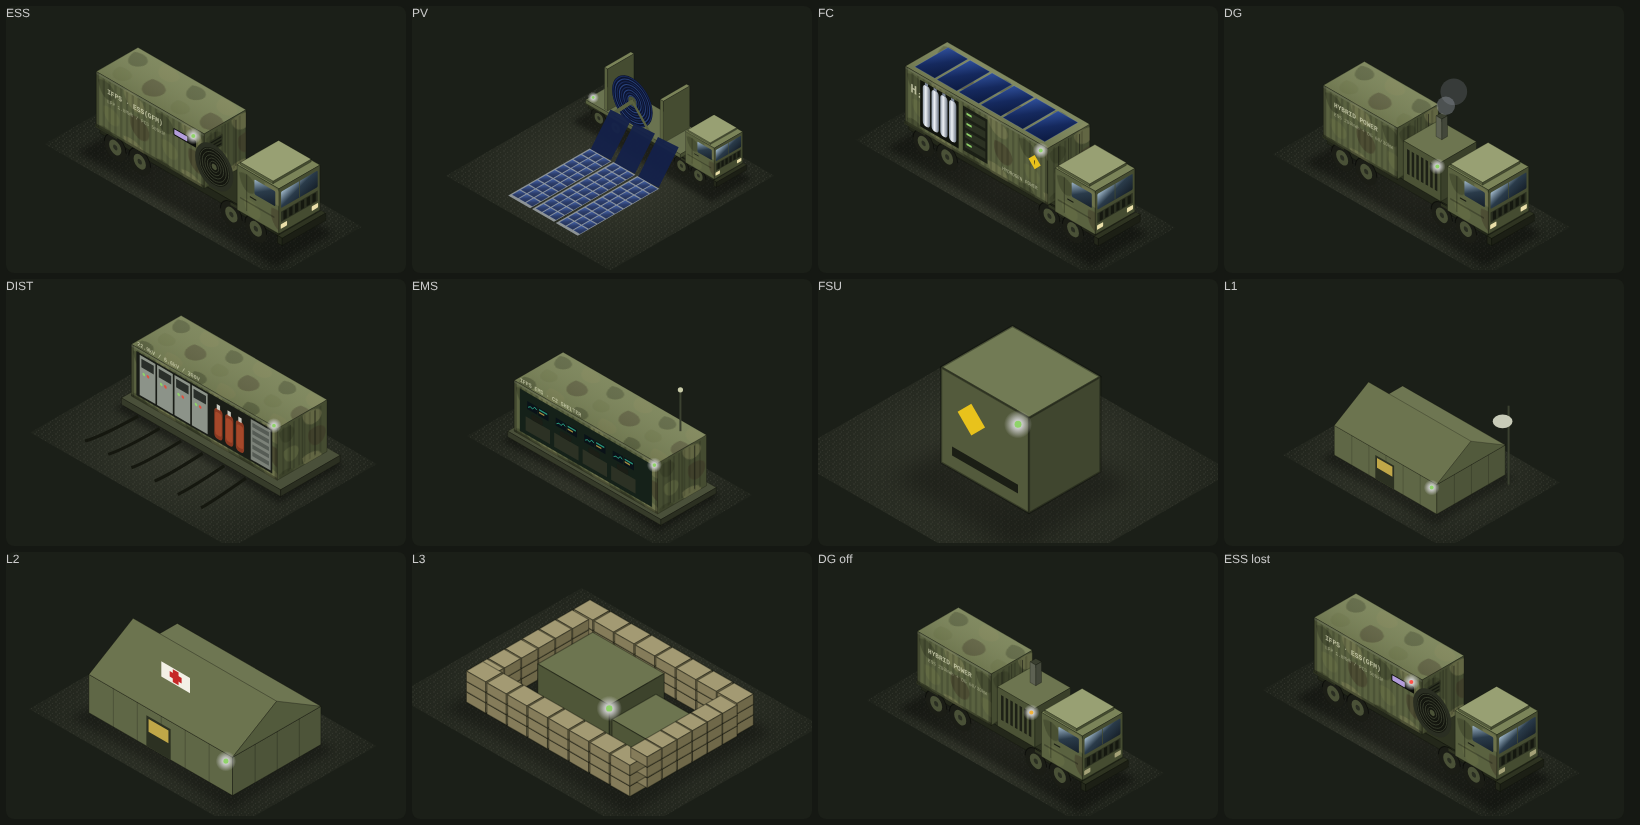
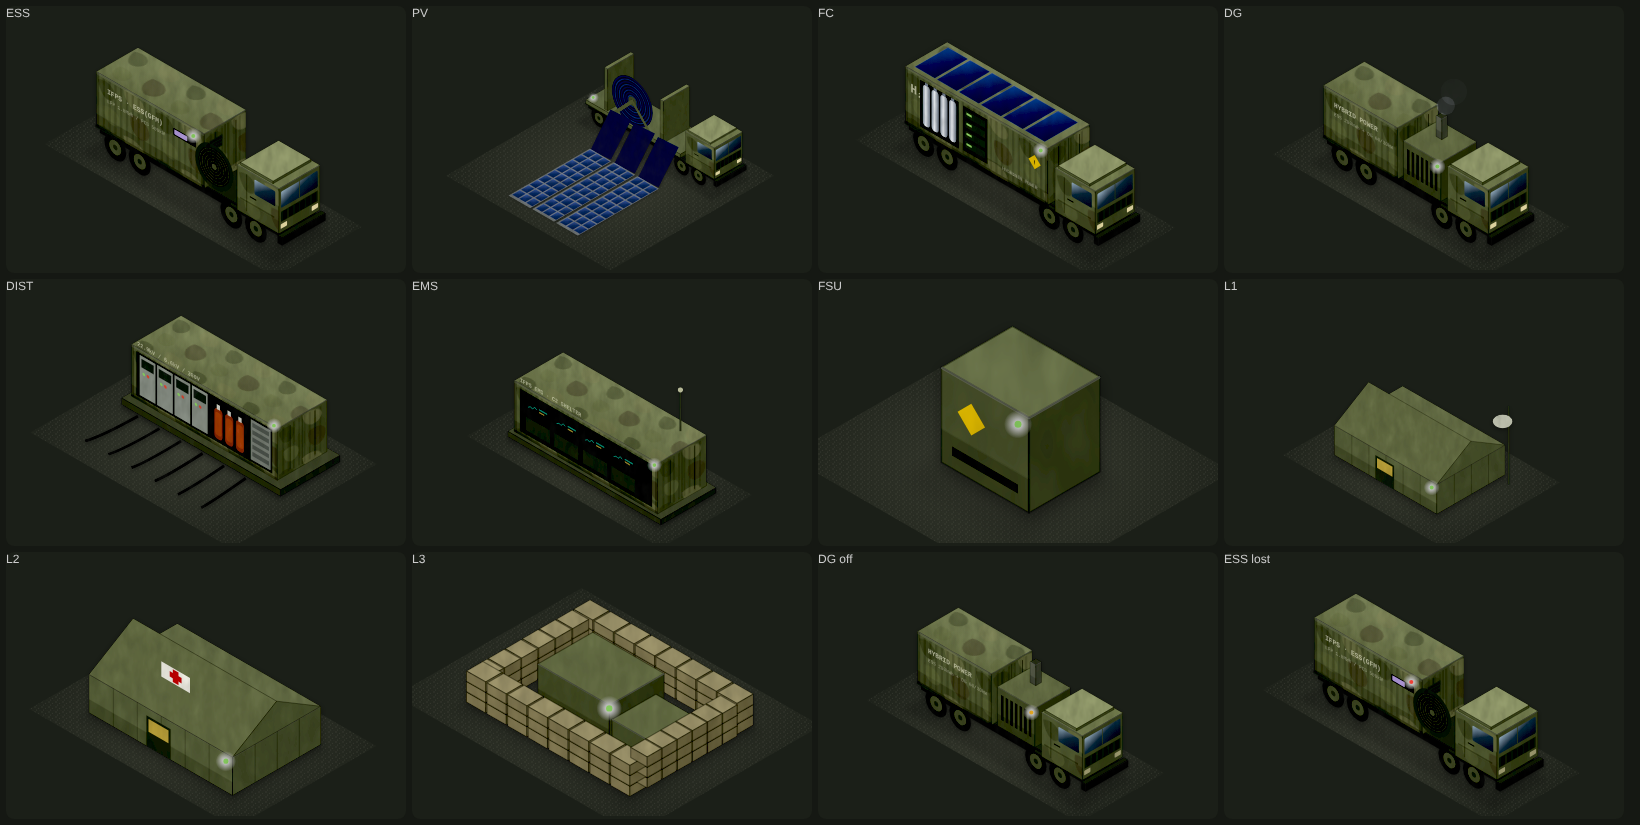
feat(mobile_ems): semi-photoreal vector texture and photo-folder support for AI-generated equipment images
- isoart: fractal-noise grime/grain texture, drop and contact shadows, edge highlights
- equipment cards use photos/<kind>.jpg when present (status overlay kept), vector art otherwise; /api/photos
- tools/fetch_ai_photos.py downloads the 11 generated photoreal images on an internet-connected PC

Claude-Session: https://claude.ai/code/session_01LA7MXdZMW4gUQZvBygoRnA

diff --git a/mobile_ems/ifps_ems_rt/hmi/static/isoart.js b/mobile_ems/ifps_ems_rt/hmi/static/isoart.js
@@ -11,6 +11,10 @@ class Iso {
   poly(a, fill, extra = "") { return `<polygon points="${this.pts(a)}" fill="${fill}" stroke="#0b0d08" stroke-opacity=".38" stroke-width="${Math.max(.5, this.S * .035).toFixed(2)}" stroke-linejoin="round" ${extra}/>`; }
   ground(x0, y0, x1, y1) { return `<polygon points="${this.pts([[x0, y0, 0], [x1, y0, 0], [x1, y1, 0], [x0, y1, 0]])}" fill="url(#${this.id}gr)"/><polygon points="${this.pts([[x0, y0, 0], [x1, y0, 0], [x1, y1, 0], [x0, y1, 0]])}" fill="url(#${this.id}gv)" opacity=".3"/>`; }
   box(x, y, z, w, d, h, c = OD, extra = "") {
+    return this._box(x, y, z, w, d, h, c, extra) + (h > .5 ? this.poly([[x, y + d, z], [x + w, y + d, z], [x + w, y + d, z + Math.min(.6, h * .35)], [x, y + d, z + Math.min(.6, h * .35)]], "#000", 'stroke="none" opacity=".16"') +
+      `<polyline points="${this.pts([[x, y + d, z + h], [x + w, y + d, z + h], [x + w, y, z + h]])}" fill="none" stroke="#fff" stroke-opacity=".22" stroke-width="${Math.max(.6, this.S * .04).toFixed(2)}"/>` : "");
+  }
+  _box(x, y, z, w, d, h, c = OD, extra = "") {
     return this.poly([[x, y, z + h], [x + w, y, z + h], [x + w, y + d, z + h], [x, y + d, z + h]], c.t, extra) +
       this.poly([[x, y + d, z], [x + w, y + d, z], [x + w, y + d, z + h], [x, y + d, z + h]], c.l, extra) +
       this.poly([[x + w, y, z], [x + w, y + d, z], [x + w, y + d, z + h], [x + w, y, z + h]], c.r, extra);
@@ -31,6 +35,9 @@ class Iso {
       <path d="M1.9 1.1 C2.6 .9 3.2 1.4 2.8 1.9 C2.4 2.3 1.7 1.8 1.9 1.1Z" fill="#3a2f22"/><path d="M.4 1.4 C1.0 1.2 1.5 1.6 1.2 2.0 C.9 2.3 .3 2.0 .4 1.4Z" fill="#6c7448"/></pattern>
     <radialGradient id="${this.id}gr" cx="50%" cy="50%" r="60%"><stop offset="0" stop-color="#3a3d31" stop-opacity=".9"/><stop offset="1" stop-color="#3a3d31" stop-opacity="0"/></radialGradient>
     <pattern id="${this.id}gv" patternUnits="userSpaceOnUse" width="7" height="5"><circle cx="1" cy="1" r=".7" fill="#6b6b5c"/><circle cx="4.5" cy="2.4" r=".6" fill="#55554a"/><circle cx="2.6" cy="4" r=".5" fill="#77776a"/><circle cx="6" cy="4.4" r=".45" fill="#4a4a40"/></pattern>
+    <filter id="${this.id}tx" x="-5%" y="-5%" width="110%" height="110%"><feTurbulence type="fractalNoise" baseFrequency="${(2.2 / this.S).toFixed(3)} ${(1.1 / this.S).toFixed(3)}" numOctaves="3" seed="7" result="n"/>
+      <feColorMatrix in="n" type="saturate" values="0" result="g"/><feComposite in="SourceGraphic" in2="g" operator="arithmetic" k1=".62" k2=".72" k3="0" k4="-.02" result="m"/>
+      <feComposite in="m" in2="SourceAlpha" operator="in" result="t"/><feDropShadow dx="0" dy="${(this.S * .08).toFixed(1)}" stdDeviation="${(this.S * .12).toFixed(1)}" flood-color="#000" flood-opacity=".45"/></filter>
     <radialGradient id="${this.id}lamp"><stop offset="0" stop-color="#fff"/><stop offset=".35" stop-color="currentColor"/><stop offset="1" stop-color="currentColor" stop-opacity="0"/></radialGradient></defs>`;
   }
 }
@@ -184,7 +191,7 @@ function isoArt(kind, st = {}, W = 400, H = 250, pad = 14) {
   const S = Math.min((W - 2 * pad) / ((Lx + Ly) * ISO_C), (H - 2 * pad) / ((Lx + Ly) * ISO_S + Lz));
   const ox = (W - (Lx + Ly) * ISO_C * S) / 2 + (Ly + oy0) * ISO_C * S, oy = (H - ((Lx + Ly) * ISO_S + Lz) * S) / 2 + Lz * S - oy0 * ISO_S * S;
   const I = new Iso(ox, oy, S);
-  return `<svg viewBox="0 0 ${W} ${H}" class="isoart" preserveAspectRatio="xMidYMid meet">${I.defs()}${I.ground(-1.5, -1.2, Lx + 1, Ly + 1)}${ISO_MODELS[kind] ? ISO_MODELS[kind](I, st) : ""}</svg>`;
+  return `<svg viewBox="0 0 ${W} ${H}" class="isoart" preserveAspectRatio="xMidYMid meet">${I.defs()}${I.ground(-1.5, -1.2, Lx + 1, Ly + 1)}<g filter="url(#${I.id}tx)">${ISO_MODELS[kind] ? ISO_MODELS[kind](I, st) : ""}</g></svg>`;
 }
 /* 다른 SVG 안에 넣는 그룹(배치도용): 기준점(px,py)에 축척 S로 */
-function isoPlace(kind, st, px, py, S) { const I = new Iso(px, py, S); return `<g>${I.defs()}${ISO_MODELS[kind](I, st)}</g>`; }
+function isoPlace(kind, st, px, py, S) { const I = new Iso(px, py, S); return `<g>${I.defs()}<g filter="url(#${I.id}tx)">${ISO_MODELS[kind](I, st)}</g></g>`; }

diff --git a/mobile_ems/ifps_ems_rt/hmi/static/site.js b/mobile_ems/ifps_ems_rt/hmi/static/site.js
@@ -17,11 +17,13 @@ function siteState(s) {
   ["L1", "L2", "L3"].forEach((f, i) => { const kw = [k.l1, k.l2, k.l3][i], c = cb(f); out[f] = c === 2 ? r("bad", "0 kW", "트립 · 정전") : c === 0 ? r("idle", "0 kW", "개방") : r("ok", `${F.kw(kw)} kW`, "급전 중"); });
   return out;
 }
-/* 장비 카드: 자체 벡터 일러스트 + 상태 띠 */
+/* 장비 카드: photos/ 폴더에 실사 이미지가 있으면 사진, 없으면 자체 벡터 일러스트 + 상태 띠 */
+api("/api/photos").then(r => { S.photos = r.files || []; }).catch(() => { S.photos = []; });
 function equipPhoto(kind, st = {}) {
   const cls = st.lost || st.fault ? "bad" : st.on ? "ok" : "idle";
   const tag = st.lost ? "COMM LOSS" : st.fault ? "FAULT" : st.on ? "RUNNING" : "STANDBY";
-  return `<div class="eqph ${cls}">${isoArt(EQ_KIND[kind] || "DIST", st, 400, 250)}<span class="eqtag"><i></i>${tag}</span>${st.value !== undefined && st.value !== null && st.value !== "" ? `<span class="eqval mono">${st.value}</span>` : ""}</div>`;
+  const pk = { G1: "dg", DG: "dg", MTR: "dist", FC: "fc" }[kind] || String(kind).toLowerCase(), ph = (S.photos || []).find(f => f.split(".")[0] === pk);
+  return `<div class="eqph ${cls} ${ph ? "photo" : ""}">${ph ? `<img src="photos/${ph}" alt="${kind}" loading="lazy">` : isoArt(EQ_KIND[kind] || "DIST", st, 400, 250)}<span class="eqtag"><i></i>${tag}</span>${st.value !== undefined && st.value !== null && st.value !== "" ? `<span class="eqval mono">${st.value}</span>` : ""}</div>`;
 }
 /* 도넛(발전원 구성) */
 function mixDonut(parts, total, size = 148) {

diff --git a/mobile_ems/tools/fetch_ai_photos.py b/mobile_ems/tools/fetch_ai_photos.py
@@ -1,0 +1,19 @@
+# -*- coding: utf-8 -*-
+"""AI 생성 장비 실사 이미지(Higgsfield, 2026-11-15 생성)를 제어화면 photos 폴더로 내려받는다.
+인터넷 되는 PC에서 한 번 실행한 뒤 photos 폴더째 폐쇄망 노트북으로 옮긴다.  사용: python tools/fetch_ai_photos.py"""
+import os, urllib.request
+BASE = "https://d8j0ntlcm91z4.cloudfront.net/user_3G1lrqe7HpJoxxp7X4ZEBNoNiBf/"
+FILES = {"ess": "hf_20261115_010141_57f8b3f8-dae6-416e-b40a-338600edeb1d", "pv": "hf_20261115_010141_55e95de4-2785-488e-96dc-7673fa1b1471",
+         "fc": "hf_20261115_010241_b7143caf-9d32-46b1-9b17-9ab254ecf3fa", "dg": "hf_20261115_010141_8ddbd6bb-4bd7-4f1f-8bac-8eb35b5e7775",
+         "dist": "hf_20261115_010140_ce0a7fa6-4aba-40bf-bf8e-636cb8a06a87", "ems": "hf_20261115_010141_6ec591ae-4afc-46b4-bd1b-9fc5c8af09f5",
+         "l1": "hf_20261115_010243_b2849db0-96f1-46b4-8815-4a43343b2289", "l2": "hf_20261115_010141_910d7576-104e-499e-af71-78e81ddfcf28",
+         "l3": "hf_20261115_010140_cb33fdb7-d308-4e95-a0c0-8a1c48d6e2e7", "barrack": "hf_20261115_010241_29ebdaf2-388c-4006-a5b5-7338c80bf800",
+         "fsu": "hf_20261115_010140_e8470644-1f3d-442b-9ed6-bb030642ac2d"}
+out = os.path.join(os.path.dirname(os.path.abspath(__file__)), "..", "ifps_ems_rt", "hmi", "static", "photos")
+os.makedirs(out, exist_ok=True)
+for name, f in FILES.items():
+    dst = os.path.join(out, name + ".jpg")
+    try:
+        urllib.request.urlretrieve(BASE + f + ".jpeg", dst); print(f"{name}.jpg  {os.path.getsize(dst) // 1024} KB")
+    except Exception as e:
+        print(f"{name}: 실패 {e}")

diff --git a/mobile_ems/ifps_ems_rt/hmi/engine.py b/mobile_ems/ifps_ems_rt/hmi/engine.py
@@ -660,6 +660,10 @@ class Engine:
         if os.path.exists(pth): os.replace(pth, pth + ".bak")
         self.rt.note("배치", "작전지 배치 기본값 복원(이전 배치는 layout.json.bak)", actor=who); return {"ok": True}
 
+    def photos(self):
+        d = os.path.join(os.path.dirname(os.path.abspath(__file__)), "static", "photos")
+        return {"files": sorted(f for f in os.listdir(d) if f.lower().endswith((".jpg", ".jpeg", ".png", ".webp"))) if os.path.isdir(d) else []}
+
     def energy_hours(self):
         return {"day": self.energy["day"], "cols": ["pv", "dg", "fc", "ess_dis", "load", "ess_chg"], "hours": [[round(x, 3) for x in r] for r in self.energy["hours"]]}
 

diff --git a/mobile_ems/ifps_ems_rt/hmi/server.py b/mobile_ems/ifps_ems_rt/hmi/server.py
@@ -65,6 +65,7 @@ def make_handler(eng):
                 if p == "/api/forecast": return self._send(200, {k: v for k, v in eng.forecast(q.get("force") == "1").items() if not k.startswith("_")})
                 if p == "/api/energy": return self._send(200, eng.energy_hours())
                 if p == "/api/layout": return self._send(200, eng.layout())
+                if p == "/api/photos": return self._send(200, eng.photos())
                 if p == "/api/mb/read":
                     if self._sess("operator") is None: return
                     return self._send(200, eng.mb_read(q))
